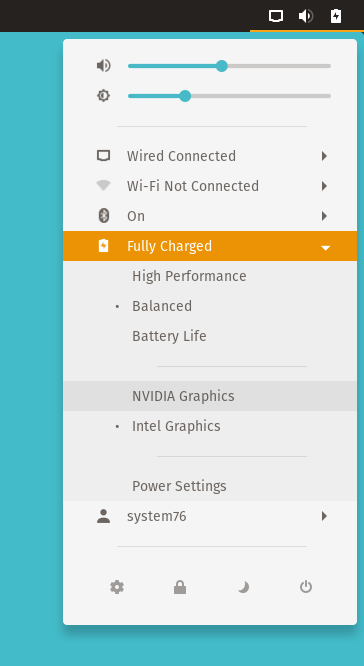
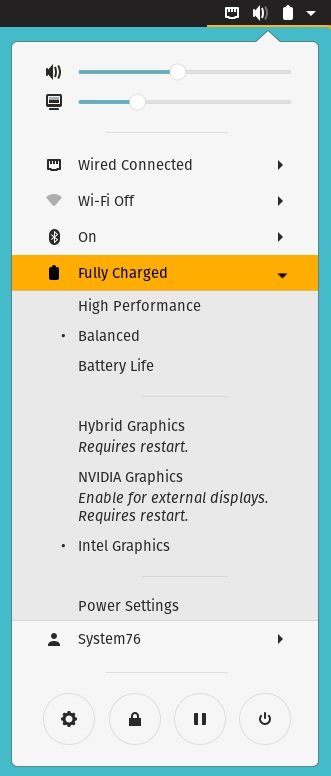
Update graphics switching for Hybrid Graphics

diff --git a/_articles/graphics-switch-ubuntu.md b/_articles/graphics-switch-ubuntu.md
@@ -2,7 +2,7 @@
 layout: article
 title: Switching Graphics in Ubuntu
 description: >
-   How to switch between Intel and NVIDIA graphics
+   How to switch between Intel, NVIDIA, and Hybrid graphics
 keywords:
   - System76
   - Ubuntu
@@ -15,17 +15,41 @@ section: pop-ubuntu
 
 ---
 
-For longer battery life and a quieter laptop use Intel graphics and switch to NVIDIA graphics when you need additional performance or to use external displays on certain laptops. _External display ports are connecting the the NVIDIA GPU on System76 laptops_.
+The following laptops have switchable graphics:
 
-### Hardware
+- Oryx Pro (oryp4, oryp4-b, oryp5)
+- Gazelle (gaze14)
+- Adder Workstation (addw1)
 
-Currently the only laptop that supports this feature is the Oryx Pro (oryp4 and oryp5).
+### Graphics modes
 
-### Software
+#### Intel
 
-Pop!_OS by System76 includes the system76-power package that includes the ability to switch between NVIDIA and Intel graphics.
+Intel graphics uses in the integrated Intel GPU only and turns off the NVIDIA
+GPU. This mode uses less power, leading to a longer battery life and less fan
+noise.
 
-You'll only need to install this software if you did a fresh install of Ubuntu as our installations will include these packages by default. You can do this with the following commands:
+#### NVIDIA
+
+NVIDIA graphics uses the discrete NVIDIA GPU only. This provides a better
+graphical experience, but reduces battery life. External display ports on
+System76 laptops are connected to the NVIDIA GPU. (Some models, such as the
+Gazelle, may also have external ports connected to the integrated GPU.)
+
+#### Hybrid
+
+Hybrid graphics uses both the integrated Intel GPU and the discrete NVIDIA GPU.
+Applications will use the integrated GPU unless explicitly requested to use the
+discrete GPU.
+
+### Switch graphics
+
+Pop!_OS by System76 includes the system76-power package that includes the
+ability to switch between Intel, NVIDIA, and hybrid graphics modes.
+
+You'll only need to install this software if you did a fresh install of Ubuntu
+as our installations will include these packages by default. You can do this
+with the following commands:
 
 ```
 sudo apt-add-repository ppa:system76-dev/stable
@@ -40,23 +64,21 @@ gnome-shell-extension-prefs
 
 Now enable the System76 Power extension with the toggle to the right.
 
-### Switch graphics
+#### From GNOME Desktop
 
-Click the system menu in the top right corner of your screen to access graphics switching.
+Click the system menu in the top right corner of your screen to access graphics
+switching.
 
 ![Graphics](/images/graphics-switch-ubuntu/system-menu.png)
 
-#### Selecting NVIDIA or Intel
+Click on NVIDIA, Intel, or Hybrid, depending on your use case.
 
-Select either NVIDIA or Intel depending on which GPU you would like to use.
+Once you select a mode you will be prompted to reboot.
 
-#### Rebooting
+#### From the command line
 
-Once you select either NVIDIA or Intel you will be prompted to reboot.
-
-#### For other Desktop Environments
-
-If you are not on the GNOME Desktop Environment there is a command line option to use system76-power. You can see these options with this command:
+If you are not on the GNOME Desktop Environment there is a command line option
+to use system76-power. You can see these options with this command:
 
 ```
 system76-power help
@@ -78,6 +100,12 @@ For switching to Intel Graphics:
 
 ```
 sudo system76-power graphics intel
+```
+
+For switching to Hybrid Graphics:
+
+```
+sudo system76-power graphics hybrid
 ```
 
 All of the packages have their source on Github at the following links:

diff --git a/_articles/graphics-switch-pop.md b/_articles/graphics-switch-pop.md
@@ -2,7 +2,7 @@
 layout: article
 title: Switching Graphics in Pop!_OS
 description: >
-   How to switch between Intel and NVIDIA graphics
+   How to switch between Intel, NVIDIA, and Hybrid graphics
 keywords:
   - System76
   - Pop
@@ -15,33 +15,53 @@ section: pop-ubuntu
 
 ---
 
-For longer battery life and a quieter laptop use Intel graphics and switch to NVIDIA graphics when you need additional performance or to use external displays on certain laptops. _External display ports are connecting the the NVIDIA GPU on System76 laptops_.
+The following laptops have switchable graphics:
 
-### Hardware
+- Oryx Pro (oryp4, oryp4-b, oryp5)
+- Gazelle (gaze14)
+- Adder Workstation (addw1)
 
-Currently the only laptop that supports this feature is the Oryx Pro (oryp4 and oryp5).
+### Graphics modes
 
-### Software
+#### Intel
 
-Pop!_OS by System76 includes the system76-power package that includes the ability to switch between NVIDIA and Intel graphics.
+Intel graphics uses in the integrated Intel GPU only and turns off the NVIDIA
+GPU. This mode uses less power, leading to a longer battery life and less fan
+noise.
+
+#### NVIDIA
+
+NVIDIA graphics uses the discrete NVIDIA GPU only. This provides a better
+graphical experience, but reduces battery life. External display ports on
+System76 laptops are connected to the NVIDIA GPU. (Some models, such as the
+Gazelle, may also have external ports connected to the integrated GPU.)
+
+#### Hybrid
+
+Hybrid graphics uses both the integrated Intel GPU and the discrete NVIDIA GPU.
+Applications will use the integrated GPU unless explicitly requested to use the
+discrete GPU.
 
 ### Switch graphics
 
-Click the system menu in the top right corner of your screen to access graphics switching.
+Pop!_OS by System76 includes the system76-power package that includes the
+ability to switch between Intel, NVIDIA, and hybrid graphics modes.
+
+#### From GNOME Desktop
+
+Click the system menu in the top right corner of your screen to access graphics
+switching.
 
 ![Graphics](/images/graphics-switch-pop/system-menu.png)
 
-#### Selecting NVIDIA or Intel
+Click on NVIDIA, Intel, or Hybrid, depending on your use case.
 
-Select either NVIDIA or Intel depending on which GPU you would like to use.
+Once you select a mode you will be prompted to reboot.
 
-#### Rebooting
+#### From the command line
 
-Once you select either NVIDIA or Intel you will be prompted to reboot.
-
-#### For other Desktop Environments
-
-If you are not on the GNOME Desktop Environment there is a command line option to use system76-power. You can see these options with this command:
+If you are not on the GNOME Desktop Environment there is a command line option
+to use system76-power. You can see these options with this command:
 
 ```
 system76-power help
@@ -65,8 +85,13 @@ For switching to Intel Graphics:
 sudo system76-power graphics intel
 ```
 
-All of the packages have their source on Github at the following links:
+For switching to Hybrid Graphics:
 
+```
+sudo system76-power graphics hybrid
+```
+
+All of the packages have their source on Github at the following links:
 
 ### Sources
 
